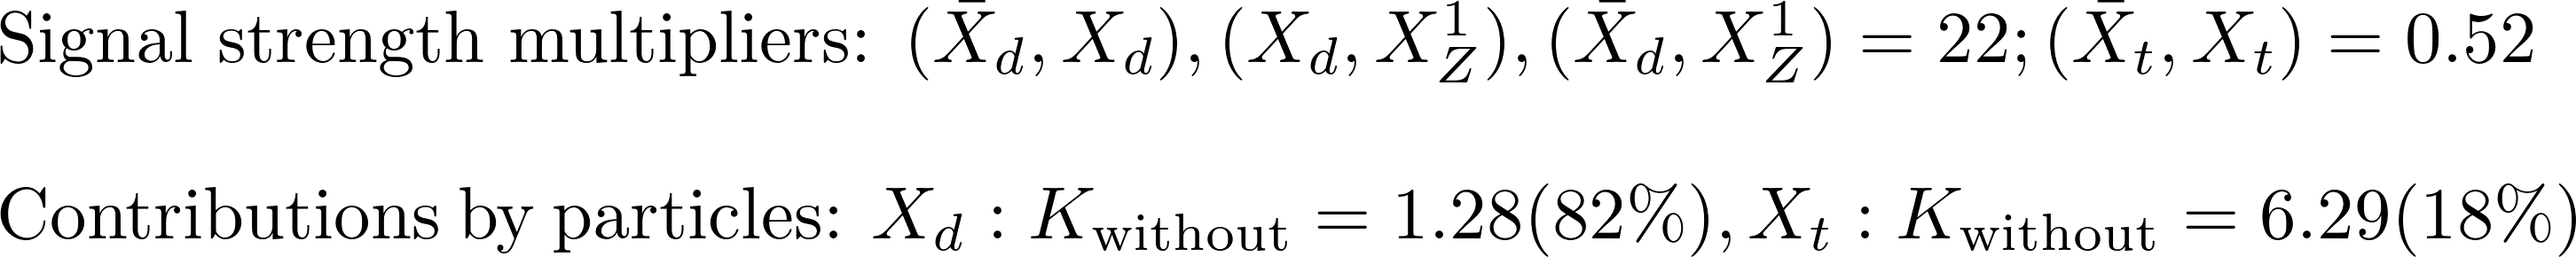
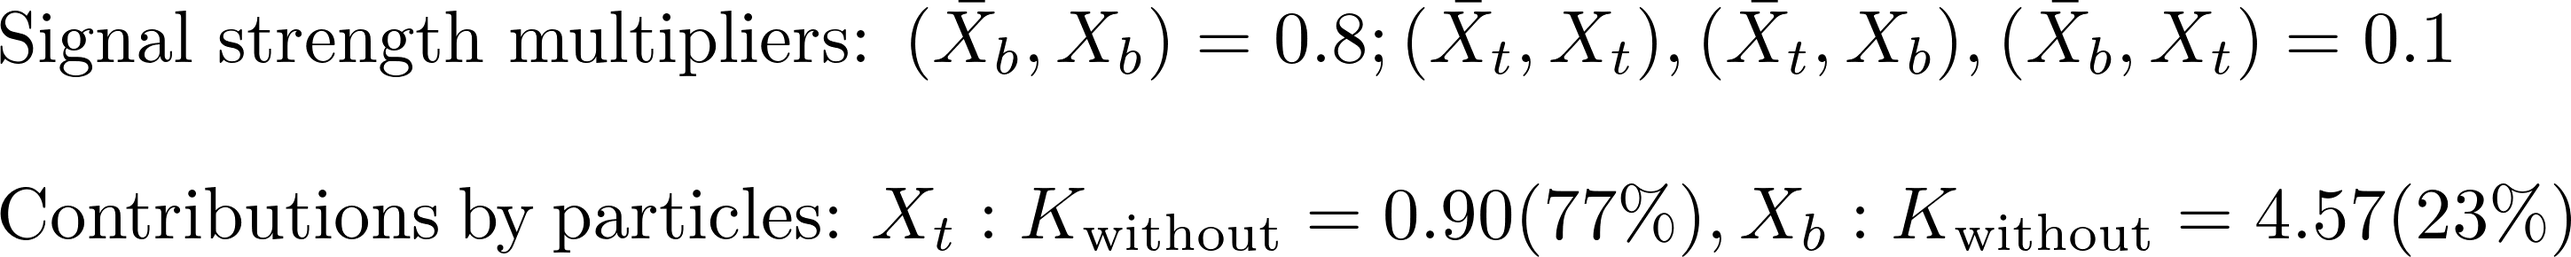
automated update by plotHiscore.py

diff --git a/protomodels/latest/index.html b/protomodels/latest/index.html
@@ -1,28 +1,30 @@
 <html>
 <body>
 <center>
-<table><td><h1>Current best protomodel: K=16.90</h1><td><img height=60px src=https://smodels.github.io/pics/banner.png></table>
+<table><td><h1>Current best protomodel: K=6.13</h1><td><img height=60px src=https://smodels.github.io/pics/banner.png></table>
 </center>
-<b><a href=./hiscore.slha>ProtoModel</a> <a href=./pmodel.py>(dict)</a> produced with <a href=https://smodels.github.io/docs/Validation124signal11>database v1.2.4signal11</a>, combination strategy <a href=./matrix_aggressive.png>aggressive</a> in walker 13 step 843.</b> K plots for: <a href=./M1000022.png?8826036>X<sub>Z</sub><sup>1</sup></a>, <a href=./M1000003.png?8826036>X<sub>s</sub></a>, <a href=./M1000001.png?8826036>X<sub>d</sub></a>. HPD plots for: <a href=./llhd1000003.png?8826036>X<sub>s</sub></a>, <a href=./llhd1000001.png?8826036>X<sub>d</sub></a>. SSM plots for: <br>
+<b><a href=./hiscore.slha>ProtoModel</a> <a href=./pmodel.py>(dict)</a> produced with <a href=https://smodels.github.io/docs/Validation124fake18>database v1.2.4fake18</a>, combination strategy <a href=./matrix_aggressive.png>aggressive</a> in walker 27 step 304.</b> K plots for: <a href=./M1000022.png?8826071>X<sub>Z</sub><sup>1</sup></a>, <a href=./M1000005.png?8826071>X<sub>b</sub></a>, <a href=./M1000006.png?8826071>X<sub>t</sub></a>. HPD plots for: <a href=./llhd1000005.png?8826071>X<sub>b</sub></a>, <a href=./llhd1000006.png?8826071>X<sub>t</sub></a>. SSM plots for: <a href=./ssm_-1000006_1000006.png?8826071>(x&#772;<sub>t</sub>,X<sub>t</sub>)</a><br>
 <table width=80%>
 <tr><td>
-<br><b>12 predictions available. Highest r values are:</b><br><ul>
-<li><a href=http://cms-results.web.cern.ch/cms-results/public-results/publications/SUS-19-006/index.html>CMS-SUS-19-006</a>:T2 r=1.30, r<sub>exp</sub>=1.80<br>
-<li><a href=https://atlas.web.cern.ch/Atlas/GROUPS/PHYSICS/PAPERS/SUSY-2016-07/>ATLAS-SUSY-2016-07</a>:T2 r=1.27, r<sub>exp</sub>=1.83<br>
-<li><a href=http://cms-results.web.cern.ch/cms-results/public-results/publications/SUS-16-036/index.html>CMS-SUS-16-036</a>:T2 r=1.12, r<sub>exp</sub>=1.17<br>
-<li><a href=http://cms-results.web.cern.ch/cms-results/public-results/publications/SUS-19-006/index.html>CMS-SUS-19-006</a>:T2 r=1.03, r<sub>exp</sub>=2.48<br>
-<li><a href=http://cms-results.web.cern.ch/cms-results/public-results/publications/SUS-16-033/index.html>CMS-SUS-16-033</a>:T2 r=0.90, r<sub>exp</sub>=1.29<br>
+<br><b>34 predictions available. Highest r values are:</b><br><ul>
+<li>CMS-SUS-16-049:T2tt r=1.30, r<sub>exp</sub>=0.58<br>
+<li>CMS-SUS-16-033:T2bb r=1.04, r<sub>exp</sub>=0.34<br>
+<li>CMS-SUS-17-001:T2tt r=0.95, r<sub>exp</sub>=N/A<br>
+<li>CMS-PAS-SUS-13-023:T2tt r=0.74, r<sub>exp</sub>=N/A<br>
+<li>CMS-SUS-16-036:T2tt r=0.72, r<sub>exp</sub>=0.51<br>
 </ul>
 <td><br><b>K values without analyses: (contribution)</b><br>
 <ul>
-<li> <a href=http://cms-results.web.cern.ch/cms-results/public-results/publications/SUS-16-033/index.html>CMS-SUS-16-033</a>: 9.48 (20%)
-<li> <a href=https://atlas.web.cern.ch/Atlas/GROUPS/PHYSICS/PAPERS/SUSY-2013-02/>ATLAS-SUSY-2013-02</a>: 9.30 (21%)
-<li> <a href=https://atlas.web.cern.ch/Atlas/GROUPS/PHYSICS/PAPERS/SUSY-2016-07/>ATLAS-SUSY-2016-07</a>: -4.47 (59%)
-<td><img width=600px src=./texdoc.png?1601826036>
-<br><font size=-1>Last updated: Sun Oct  4 17:40:36 2020</font>
+<li> <a href=>CMS-SUS-13-012</a>: -1.95 (19%)
+<li> <a href=>CMS-SUS-16-036</a>: -2.47 (20%)
+<li> <a href=>CMS-SUS-17-010</a>: -2.47 (20%)
+<li> <a href=>ATLAS-SUSY-2013-21</a>: -2.54 (20%)
+<li> <a href=>ATLAS-SUSY-2013-15</a>: -3.55 (22%)
+<td><img width=600px src=./texdoc.png?1601826071>
+<br><font size=-1>Last updated: Sun Oct  4 17:41:11 2020</font>
 </table><table style="width:80%">
-<td width=45%><img height=580px src=./ruler.png?1601826036><td width=55%><img height=380px src=./decays.png?1601826036>
-<font size=-3><iframe type="text/html" height="220px" width="100%s" frameborder="0" src="./rawnumbers.html?1601826036"></iframe></font>
+<td width=45%><img height=580px src=./ruler.png?1601826071><td width=55%><img height=380px src=./decays.png?1601826071>
+<font size=-3><iframe type="text/html" height="220px" width="100%s" frameborder="0" src="./rawnumbers.html?1601826071"></iframe></font>
 </table>
 </body>
 </html>

diff --git a/protomodels/latest/rawnumbers.html b/protomodels/latest/rawnumbers.html
@@ -1,7 +1,9 @@
 <table>
-<tr><th>Analysis Name</th><th>Type</th><th>Dataset</th><th>Topos</th><th>Observed</th><th>Expected</th><th>Approx &sigma;</th><th>Particles</th><th>Signal</th>
+<tr><th>Analysis Name</th><th>Type</th><th>Dataset</th><th>Topos</th><th>Observed</th><th>Expected</th><th>Approx &sigma;</th><th>Particles</th>
 </tr>
-<tr><td><a href=https://atlas.web.cern.ch/Atlas/GROUPS/PHYSICS/PAPERS/SUSY-2013-02/>ATLAS-SUSY-2013-02</a></td><td>em</td> <td>SR6jm</td><td>T2</td><td>44</td><td>33 +/- 6</td><td style="text-align:right">1.3 &sigma;</td><td style="text-align:right">X<sub>d</sub></td><td style="text-align:right">-</td></tr>
-<tr><td><a href=https://atlas.web.cern.ch/Atlas/GROUPS/PHYSICS/PAPERS/SUSY-2016-07/>ATLAS-SUSY-2016-07</a></td><td>em</td> <td>5j_Meff_2000</td><td>T2</td><td>109</td><td>65 +/- 7</td><td style="text-align:right">4.1 &sigma;</td><td style="text-align:right">X<sub>d</sub>, X<sub>s</sub></td><td style="text-align:right">14</td></tr>
-<tr><td><a href=http://cms-results.web.cern.ch/cms-results/public-results/publications/SUS-16-033/index.html>CMS-SUS-16-033</a></td><td>ul</td> <td>-</td><td>T2</td><td> 20.3 fb </td><td> 8.9 fb</td><td style="text-align:right">2.5 &sigma;</td><td style="text-align:right">X<sub>s</sub></td><td style="text-align:right">11.34 fb</td></tr>
+<tr><td>ATLAS-SUSY-2013-15</td><td>em</td> <td>tNboost</td><td>T2tt</td><td>6</td><td>3.3 +/- 0.7</td><td style="text-align:right">1.4 &sigma;</td><td style="text-align:right">X<sub>t</sub></td></tr>
+<tr><td>ATLAS-SUSY-2013-21</td><td>em</td> <td>M3</td><td>T2bb</td><td>1900</td><td>1770 +/- 81</td><td style="text-align:right">1.4 &sigma;</td><td style="text-align:right">X<sub>b</sub></td></tr>
+<tr><td>CMS-SUS-13-012</td><td>em</td> <td>6NJet8_500HT800 ...</td><td>T2bb, T2tt</td><td>0</td><td>0.8 +/- 3.3</td><td style="text-align:right">-0.2 &sigma;</td><td style="text-align:right">X<sub>b</sub>, X<sub>t</sub></td></tr>
+<tr><td>CMS-SUS-16-036</td><td>ul</td> <td>-</td><td>T2bb</td><td> 9.6 fb </td><td> 4.8 fb</td><td style="text-align:right">2.0 &sigma;</td><td style="text-align:right">X<sub>b</sub></td></tr>
+<tr><td>CMS-SUS-17-010</td><td>ul</td> <td>-</td><td>T2tt</td><td> 1103.4 fb </td><td> 506.4 fb</td><td style="text-align:right">2.3 &sigma;</td><td style="text-align:right">X<sub>t</sub></td></tr>
 </table>

diff --git a/protomodels/latest/pmodel.py b/protomodels/latest/pmodel.py
@@ -1,1 +1,1 @@
-{'masses': {1000022: 985.589, 1000001: 1344.059, 1000003: 1608.947}, 'ssmultipliers': {(1000022, 1000022): 75.865, (1000001, 1000001): 59.73, (-1000001, 1000001): 60.121, (-1000001, -1000001): 60.121, (1000001, 1000022): 60.486, (-1000001, 1000022): 60.504, (1000003, 1000003): 93.111, (-1000003, 1000003): 93.111, (-1000003, -1000003): 93.482, (1000003, 1000022): 93.828, (-1000003, 1000022): 0.0, (1000001, 1000003): 1.284, (-1000003, 1000001): 0.0, (-1000001, 1000003): 75.992, (-1000003, -1000001): 84.501}, 'decays': {1000022: {}, 1000001: {(1000022, 1): 1.0}, 1000003: {(1000022, 3): 1.0}}, 'timestamp': 'Sun Oct  4 17:40:23 2020', 'Z': 4.626, 'K': 16.898, 'step': 843, 'codever': '1.0', 'dbver': '1.2.4signal11'}
+{'masses': {1000022: 50.288, 1000005: 920.228, 1000006: 331.055}, 'ssmultipliers': {(1000022, 1000022): 0.0, (1000005, 1000005): 0.006, (-1000005, 1000005): 0.801, (-1000005, -1000005): 0.006, (1000005, 1000022): 0.803, (-1000005, 1000022): 0.006, (1000006, 1000006): 0.104, (-1000006, 1000006): 0.104, (-1000006, -1000006): 0.104, (1000006, 1000022): 0.104, (-1000006, 1000022): 0.104, (1000005, 1000006): 0.104, (-1000006, 1000005): 0.104, (-1000005, 1000006): 0.104, (-1000006, -1000005): 0.104}, 'decays': {1000022: {}, 1000005: {(1000022, 5): 0.512, (1000006, 24): 0.488}, 1000006: {(1000022, 6): 1.0}}, 'timestamp': 'Sun Oct  4 17:40:55 2020', 'Z': 3.111, 'K': 6.131, 'step': 304, 'codever': '1.0', 'dbver': '1.2.4fake18'}
